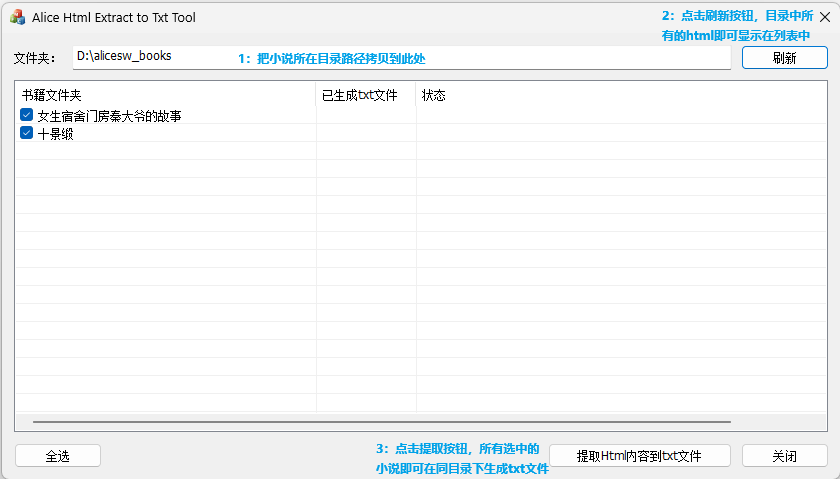
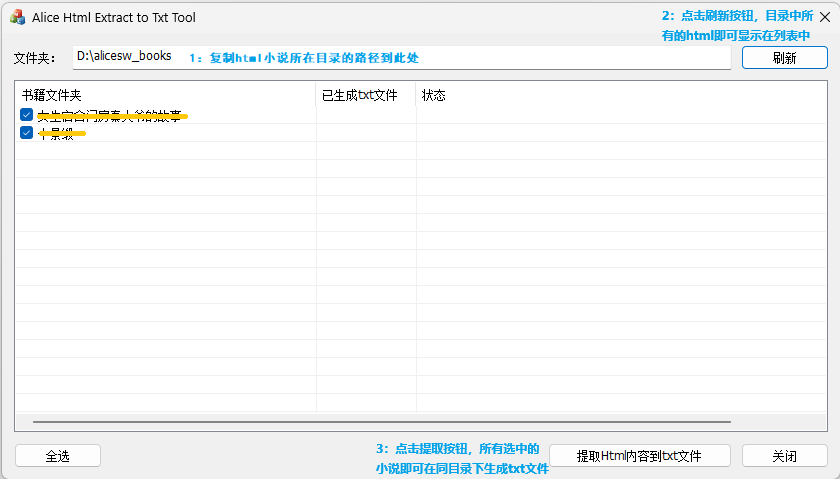
Update README.md

Changed region(s): [[0.2476, 0.0877, 0.5262, 0.1461], [0.031, 0.2338, 0.2167, 0.2923]]

diff --git a/README.md b/README.md
@@ -6,7 +6,7 @@
 
 # 1. 如何从爱丽丝书屋获取小说的HTML文件
 
-因为该网站现在禁止另存为html文件，且禁止复制网页内容，目前的办法是：
+因为该网站现在加载出来的小说页面另存为html文件的话，其内部小说内容为空，且网站禁止复制网页内容。所以目前手动获取html的办法是：
 
 需在电脑上操作。
 
@@ -19,18 +19,16 @@
 
 需在Windows电脑上编译运行本程序。
 
-## 直接使用已编译好的exe
+## 直接使用已编译好的exe程序
 
 exe路径：\x64\Release\AliceHtmlExtractor.exe
 
-注意：电脑上必须安装Microsoft Visual C++ 2015-2022 Redistributable (x64) （最新的似乎已改名为Microsoft Visual C++ v14 Redistributable (x64)），可去微软网站下载安装包并安装，安装包名一般为VC_redist.x64.exe。
-
-VC_redist文件夹也提供了此安装文件。
+注意：电脑上必须安装Microsoft Visual C++ 2015-2022 Redistributable (x64) （最新的似乎已改名为Microsoft Visual C++ v14 Redistributable (x64)），可去微软网站下载安装包并安装，安装包名一般为VC_redist.x64.exe。本仓库VC_redist文件夹也提供了此安装文件。
 
 ## 编译本程序
 
 VS2022或以上，必须安装MSVC v143。
 
-## 使用本程序
+## 本程序使用说明
 
 ![本地图片](usage.png "使用说明")
